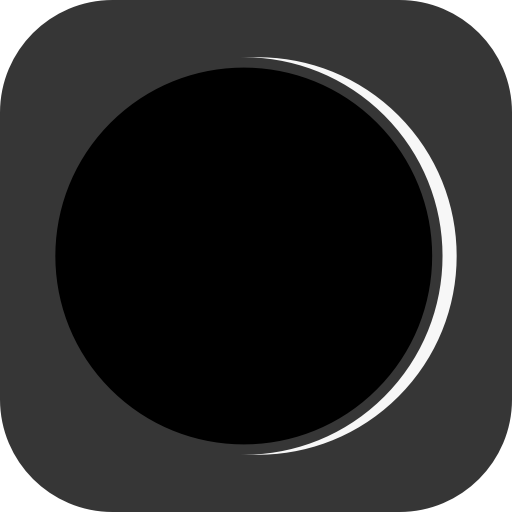
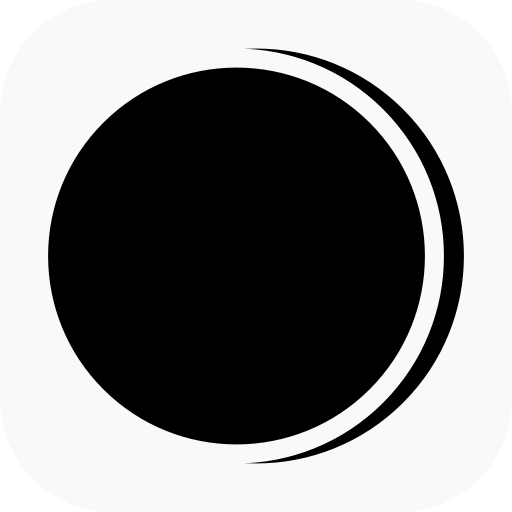
fix(brand): draw the canonical flame-less eclipse
Trace menu-bar-mark.jpg: black disc, measured gap/sliver, no flames.
Menu-bar template stays monochrome. Dock tile is the same mark on light
so the disc reads.

diff --git a/tools/make-appicon.swift b/tools/make-appicon.swift
@@ -4,9 +4,8 @@
 // Xcode). bundle.sh runs this, then `iconutil` assembles the .icns.
 //
 // Same Night Walker eclipse as Sources/.../EclipseMark.swift (keep the unit-
-// space numbers in sync): filled disc + thin right crescent. No flames.
-// Dock/app icon is that silhouette on a dark tile; the crescent is light so
-// it reads (the menu-bar template is monochrome black).
+// space numbers in sync): black disc + thin right crescent on a light tile.
+// No flames. The menu-bar template is the same silhouette, monochrome.
 //
 // Usage: swift tools/make-appicon.swift <output-iconset-dir>
 
@@ -23,8 +22,9 @@ try? FileManager.default.createDirectory(atPath: outDir, withIntermediateDirecto
 // Unit square, origin bottom-left, y-up. Must match EclipseMark.swift.
 let markCY: CGFloat = 0.50
 let markR: CGFloat = 0.40
-let markGapFrac: CGFloat = 0.055
-let markOffsetFrac: CGFloat = 0.075
+// Measured from the canonical 1024px jpg (disc r=208, gap=21, sliver=22).
+let markGapFrac: CGFloat = 0.101
+let markOffsetFrac: CGFloat = 0.106
 let markMinGap: CGFloat = 1.15
 let markMinOffset: CGFloat = 1.45
 
@@ -62,20 +62,19 @@ func draw(_ px: CGFloat) -> NSImage {
     let img = NSImage(size: size, flipped: false) { rect in
         let corner = px * 0.22
         let tile = NSBezierPath(roundedRect: rect, xRadius: corner, yRadius: corner)
-        let tileColor = NSColor(calibratedWhite: 0.16, alpha: 1)
+        // Light tile so the black disc reads — same as the canonical jpg.
+        let tileColor = NSColor(calibratedWhite: 0.97, alpha: 1)
         tileColor.setFill()
         tile.fill()
         tile.addClip()
 
         let g = eclipseGeometry(in: rect)
 
-        // Crescent: fill the offset circle, then cover the overlap with the
-        // tile so only the right sliver remains. No flames.
-        NSColor(calibratedWhite: 0.96, alpha: 1).setFill()
+        // Black crescent, then punch the gap with the tile, then black disc.
+        NSColor.black.setFill()
         NSBezierPath(ovalIn: g.outer).fill()
         tileColor.setFill()
         NSBezierPath(ovalIn: g.punch).fill()
-
         NSColor.black.setFill()
         NSBezierPath(ovalIn: g.disc).fill()
 

diff --git a/Sources/color-filter-scheduler/EclipseMark.swift b/Sources/color-filter-scheduler/EclipseMark.swift
@@ -19,8 +19,9 @@ enum EclipseMark {
 
     static let cy: CGFloat = 0.50
     static let r: CGFloat = 0.40
-    static let gapFrac: CGFloat = 0.055     // of r, large sizes
-    static let offsetFrac: CGFloat = 0.075  // of r, large sizes
+    // Measured from the canonical 1024px jpg (disc r=208, gap=21, sliver=22).
+    static let gapFrac: CGFloat = 0.101
+    static let offsetFrac: CGFloat = 0.106
     static let minGap: CGFloat = 1.15       // points, small sizes
     static let minOffset: CGFloat = 1.45
 

diff --git a/AGENTS.md b/AGENTS.md
@@ -39,9 +39,9 @@ The presentation is a custom near-black, borderless `NSPanel` hosting SwiftUI,
 - `MenuBarIcon.swift` / `EclipseMark.swift` — programmatic monochrome template
   eclipse: filled disc + thin right crescent. No flames, spikes, or rays.
   macOS tints the template.
-- `tools/make-appicon.swift` — same silhouette for the `.icns` (light crescent
-  on a dark tile). Run by `bundle.sh`. Keep its unit-space numbers in sync
-  with `EclipseMark.swift`.
+- `tools/make-appicon.swift` — same silhouette for the `.icns` (black disc +
+  black crescent on a light tile). Run by `bundle.sh`. Keep its unit-space
+  numbers in sync with `EclipseMark.swift`.
 - `--render-panel <dir>` CLI regenerates the AppKit-backed panel screenshots
   (panel architecture: `docs/evidence/cfs-ui3/`; brand glyph: `docs/evidence/nw-brand/`).
 Any UI/engine testing MUST restore Color Filters to the pre-test state (see

diff --git a/docs/evidence/nw-brand/README.md b/docs/evidence/nw-brand/README.md
@@ -7,4 +7,5 @@ live Color Filters state) plus `tools/make-appicon.swift`.
   light bar (black). Same drawing as `MenuBarIcon`.
 - `panel-front-running.png` / `panel-front-paused.png` / `panel-settings.png` —
   header reads **Night Walker** with the eclipse glyph.
-- `appicon-512.png` — dock/app tile: the same silhouette, no flames.
+- `appicon-512.png` — dock/app tile: black disc + thin right crescent on a
+  light rounded square. No flames.
